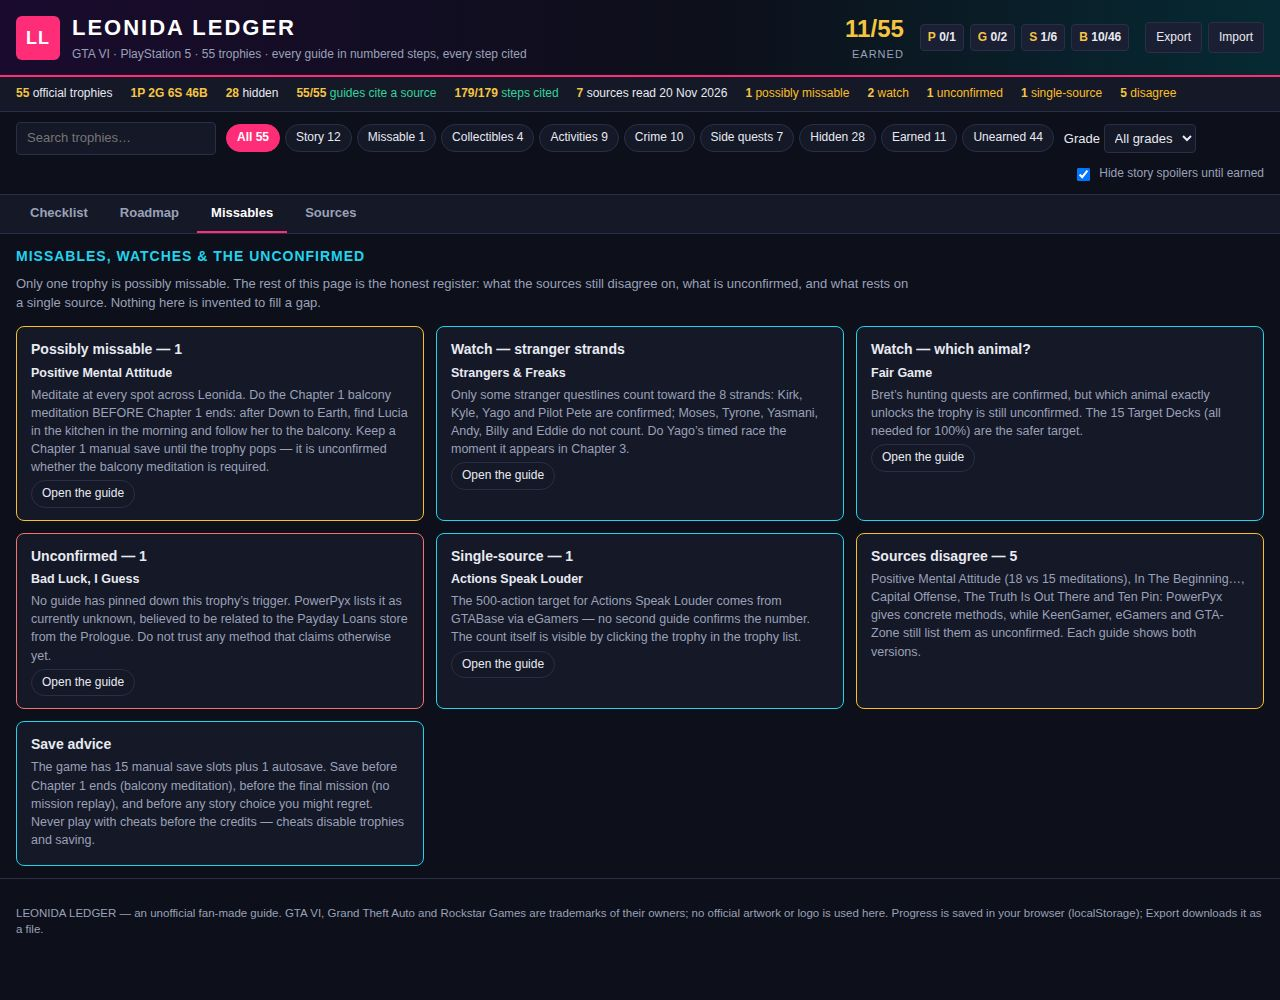
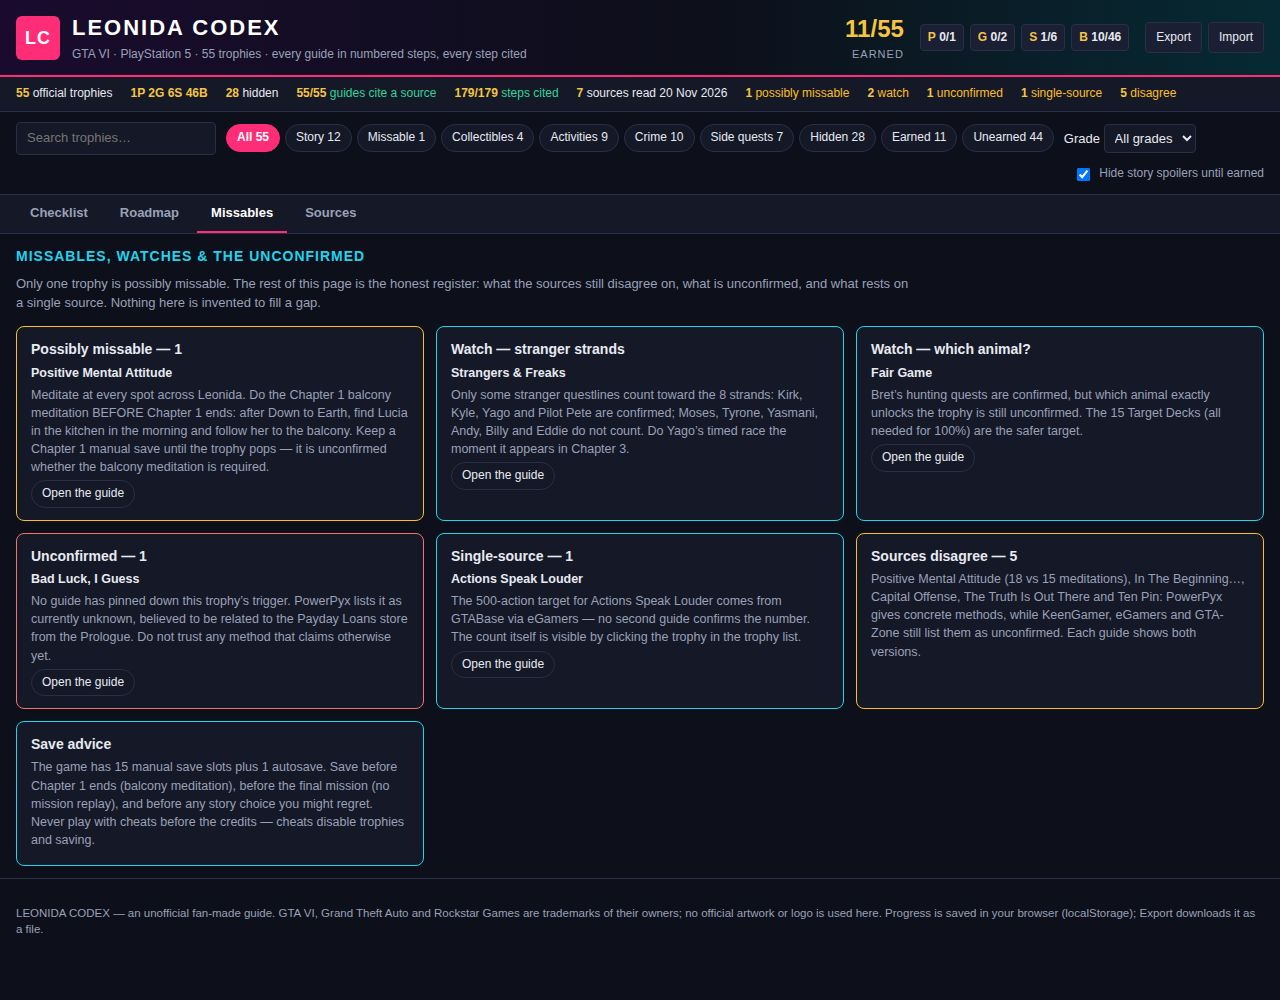
Rename LEONIDA LEDGER → LEONIDA CODEX

Changed region(s): [[0.125, 0.899, 0.9688, 0.93], [0.1562, 0.0, 0.25, 0.062], [0.0625, 0.899, 0.0938, 0.93]]

diff --git a/app/index.html b/app/index.html
@@ -3,15 +3,15 @@
 <head>
 <meta charset="utf-8">
 <meta name="viewport" content="width=device-width, initial-scale=1">
-<title>LEONIDA LEDGER — GTA VI Trophy Guide &amp; Tracker</title>
+<title>LEONIDA CODEX — GTA VI Trophy Guide &amp; Tracker</title>
 <link rel="stylesheet" href="style.css">
 </head>
 <body>
 <header class="top">
   <div class="brand">
-    <div class="brand-mark">LL</div>
+    <div class="brand-mark">LC</div>
     <div>
-      <h1>LEONIDA LEDGER</h1>
+      <h1>LEONIDA CODEX</h1>
       <p class="sub">GTA VI &middot; PlayStation 5 &middot; 55 trophies &middot; every guide in numbered steps, every step cited</p>
     </div>
   </div>
@@ -83,7 +83,7 @@
   <section id="tab-sources" class="tab-page">
     <div class="roadmap-intro">
       <h2>Sources — read 20 Nov 2026</h2>
-      <p>Seven sources, read in full. Every guide in this ledger is written in the author's own words from them — no guide text was copied. The official list is source [5]; the methods come mostly from [1], checked against the others.</p>
+      <p>Seven sources, read in full. Every guide in this codex is written in the author's own words from them — no guide text was copied. The official list is source [5]; the methods come mostly from [1], checked against the others.</p>
       <p class="judge-note">A note for the judge: every numbered step in every guide carries its sources in brackets; the audit strip above counts them (179 of 179 steps cited). Where the sources disagree, the guide shows both versions instead of picking one.</p>
     </div>
     <div id="sources-full" class="sources-full"></div>
@@ -91,7 +91,7 @@
 </main>
 
 <footer class="foot">
-  <p>LEONIDA LEDGER — an unofficial fan-made guide. GTA VI, Grand Theft Auto and Rockstar Games are trademarks of their owners; no official artwork or logo is used here. Progress is saved in your browser (localStorage); Export downloads it as a file.</p>
+  <p>LEONIDA CODEX — an unofficial fan-made guide. GTA VI, Grand Theft Auto and Rockstar Games are trademarks of their owners; no official artwork or logo is used here. Progress is saved in your browser (localStorage); Export downloads it as a file.</p>
 </footer>
 <script type="module" src="app.js"></script>
 </body>

diff --git a/app/app.js b/app/app.js
@@ -1,4 +1,4 @@
-// LEONIDA LEDGER — GTA VI trophy guide & tracker.
+// LEONIDA CODEX — GTA VI trophy guide & tracker.
 // All 55 guides live in data/trophies.json (official names/descriptions, original guides with
 // numbered steps and inline citations [1]-[7]). Progress, counters and the spoiler setting are
 // saved in localStorage; nothing leaves the browser. Fully offline: no external URLs anywhere.
@@ -170,7 +170,7 @@ function renderChecklist() {
       name.textContent = 'Hidden trophy';
       const desc = document.createElement('div');
       desc.className = 'tl-desc';
-      desc.textContent = 'Hidden until earned — turn spoilers off or reveal it to read the guide.';
+      desc.textContent = 'Hidden until earned — turn spoilers off, or reveal it to read the guide.';
       body.append(name, desc);
     } else {
       const name = document.createElement('div');
@@ -492,8 +492,8 @@ function applyTab(tab) {
 
 function exportProgress() {
   const a = document.createElement('a');
-  a.href = URL.createObjectURL(new Blob([JSON.stringify({ app: 'LEONIDA LEDGER', earned: [...earned], counts }, null, 2)], { type: 'application/json' }));
-  a.download = 'leonida-ledger-progress.json';
+  a.href = URL.createObjectURL(new Blob([JSON.stringify({ app: 'LEONIDA CODEX', earned: [...earned], counts }, null, 2)], { type: 'application/json' }));
+  a.download = 'leonida-codex-progress.json';
   a.click();
 }
 
@@ -512,7 +512,7 @@ async function importProgress(file) {
     renderGuidePane();
     renderRoadmap();
   } catch {
-    alert('That file is not a LEONIDA LEDGER progress export.');
+    alert('That file is not a LEONIDA CODEX progress export.');
   }
 }
 

diff --git a/main.ts b/main.ts
@@ -1,4 +1,4 @@
-// LEONIDA LEDGER — the entry program for gta6-trophy-guide-01 (Node 22, standard library only).
+// LEONIDA CODEX — the entry program for gta6-trophy-guide-01 (Node 22, standard library only).
 // The guide itself is plain static files in app/ (index.html + app.js + style.css + data/trophies.json),
 // opened at app/index.html, fully offline: it loads nothing over the network, and every source it
 // cites is listed by name in the app. This program hands the entry in: it copies app/ and

diff --git a/app/style.css b/app/style.css
@@ -1,4 +1,4 @@
-/* LEONIDA LEDGER — dark dusk theme, dense 3-column tracker. No external assets: system fonts only. */
+/* LEONIDA CODEX — dark dusk theme, dense 3-column tracker. No external assets: system fonts only. */
 :root {
   --bg: #0d0f1a;
   --panel: #151827;

diff --git a/README.md b/README.md
@@ -4,7 +4,7 @@
 [![rank](https://make.fun/badge/gta6-trophy-guide-01/seannbeez/gta6-trophy-guide-01/rank.svg)](https://make.fun/bounty/gta6-trophy-guide-01/leaderboard?utm_source=github&utm_medium=readme&utm_campaign=gta6-trophy-guide-01)
 [![reward](https://make.fun/badge/gta6-trophy-guide-01/seannbeez/gta6-trophy-guide-01/reward.svg)](https://make.fun/bounty/gta6-trophy-guide-01?utm_source=github&utm_medium=readme&utm_campaign=gta6-trophy-guide-01)
 
-LEONIDA LEDGER — a GTA VI trophy guide & tracker for PlayStation 5. All 55 official trophies (1 platinum, 2 gold, 6 silver, 46 bronze; 28 hidden), each with an original guide in numbered steps — every step cites its sources. Seven sources read in full on 20 Nov 2026 (PowerPyx, OutputLag, KeenGamer, eGamers, the official list, GTA-Zone, GTA Vibes). Where the sources disagree (the 18-vs-15 meditations, four disputed secrets, the unconfirmed Bad Luck trophy), the guide shows both versions instead of picking one.
+LEONIDA CODEX — a GTA VI trophy guide & tracker for PlayStation 5. All 55 official trophies (1 platinum, 2 gold, 6 silver, 46 bronze; 28 hidden), each with an original guide in numbered steps — every step cites its sources. Seven sources read in full on 20 Nov 2026 (PowerPyx, OutputLag, KeenGamer, eGamers, the official list, GTA-Zone, GTA Vibes). Where the sources disagree (the 18-vs-15 meditations, four disputed secrets, the unconfirmed Bad Luck trophy), the guide shows both versions instead of picking one.
 
 Features: a checklist with progress saved in the browser, grade counters, filters (story / missable / collectibles / activities / crime / side quests / hidden), a spoiler toggle that hides story trophies until earned, per-trophy counters for count trophies, a 7-stage roadmap to the platinum, a missables register, and a sources panel with per-source citation counts. Fully offline — no external files, fonts or images.
 
